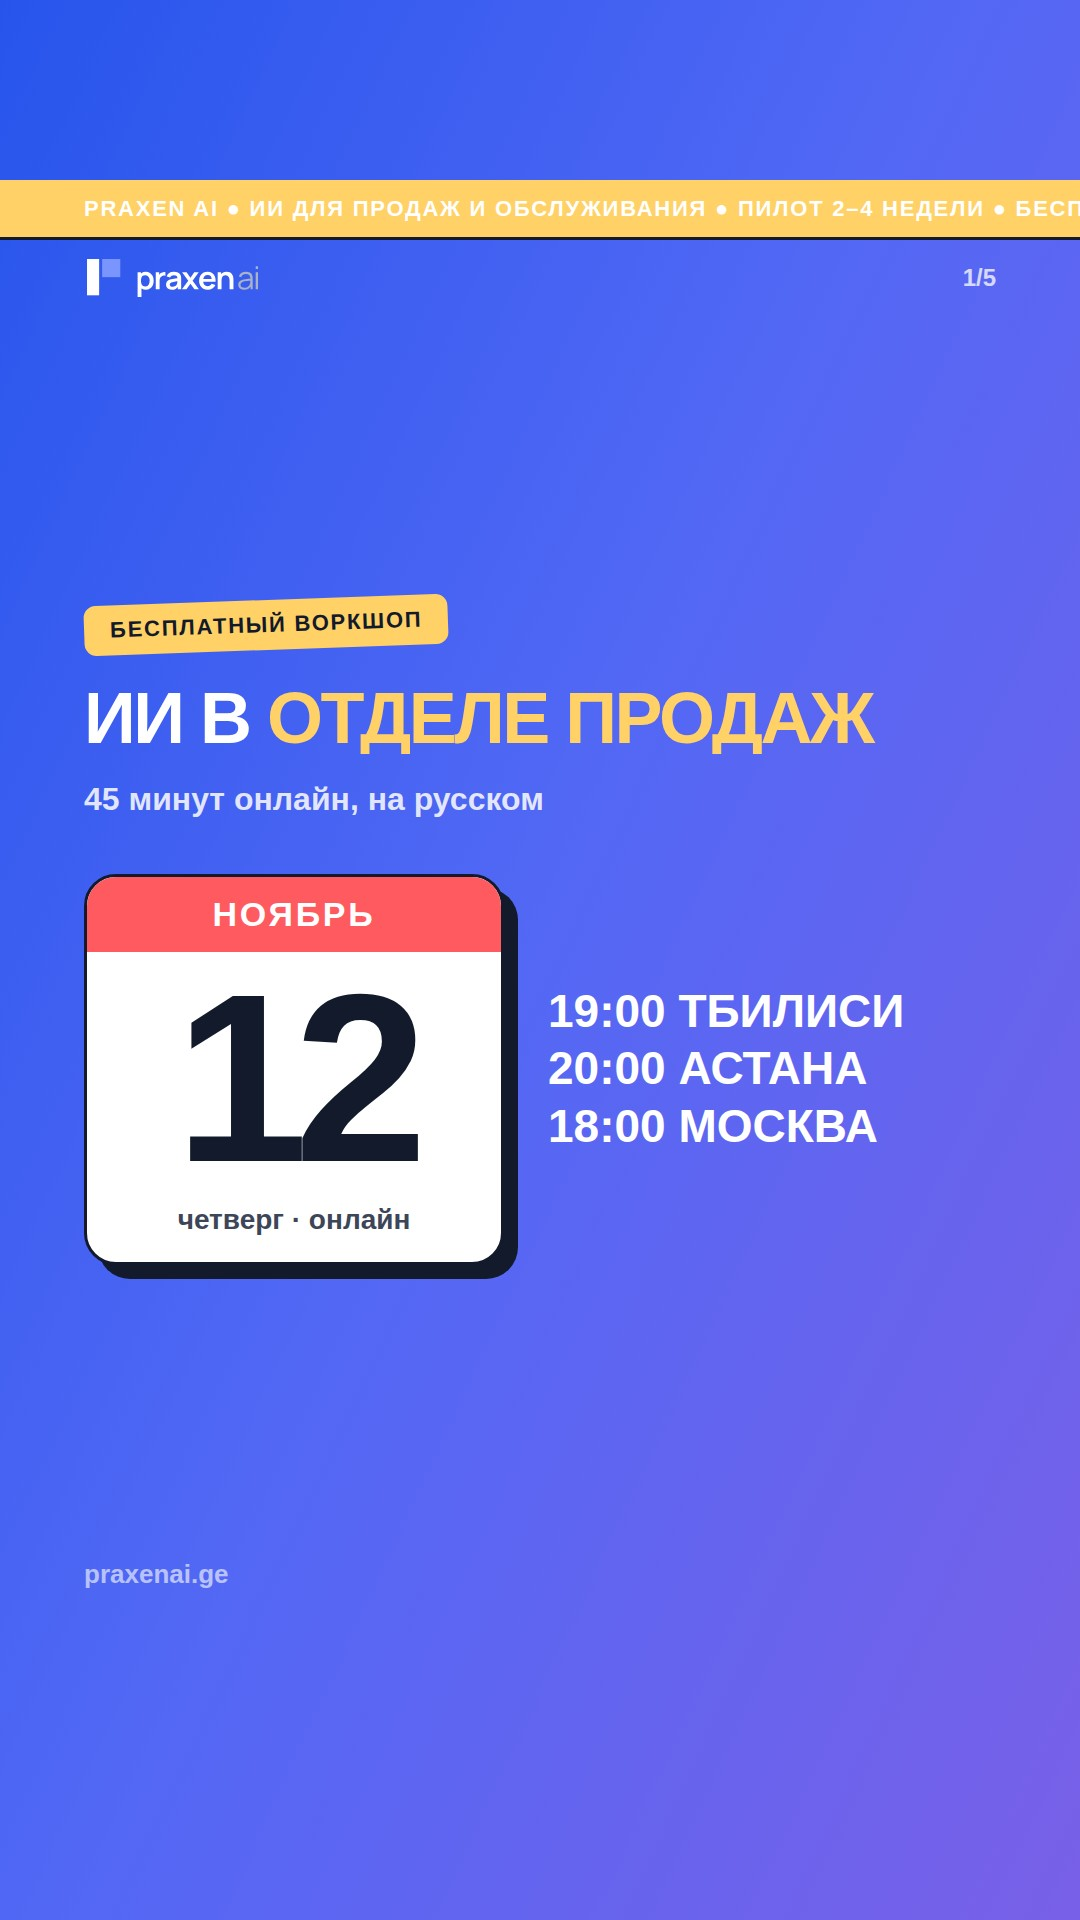
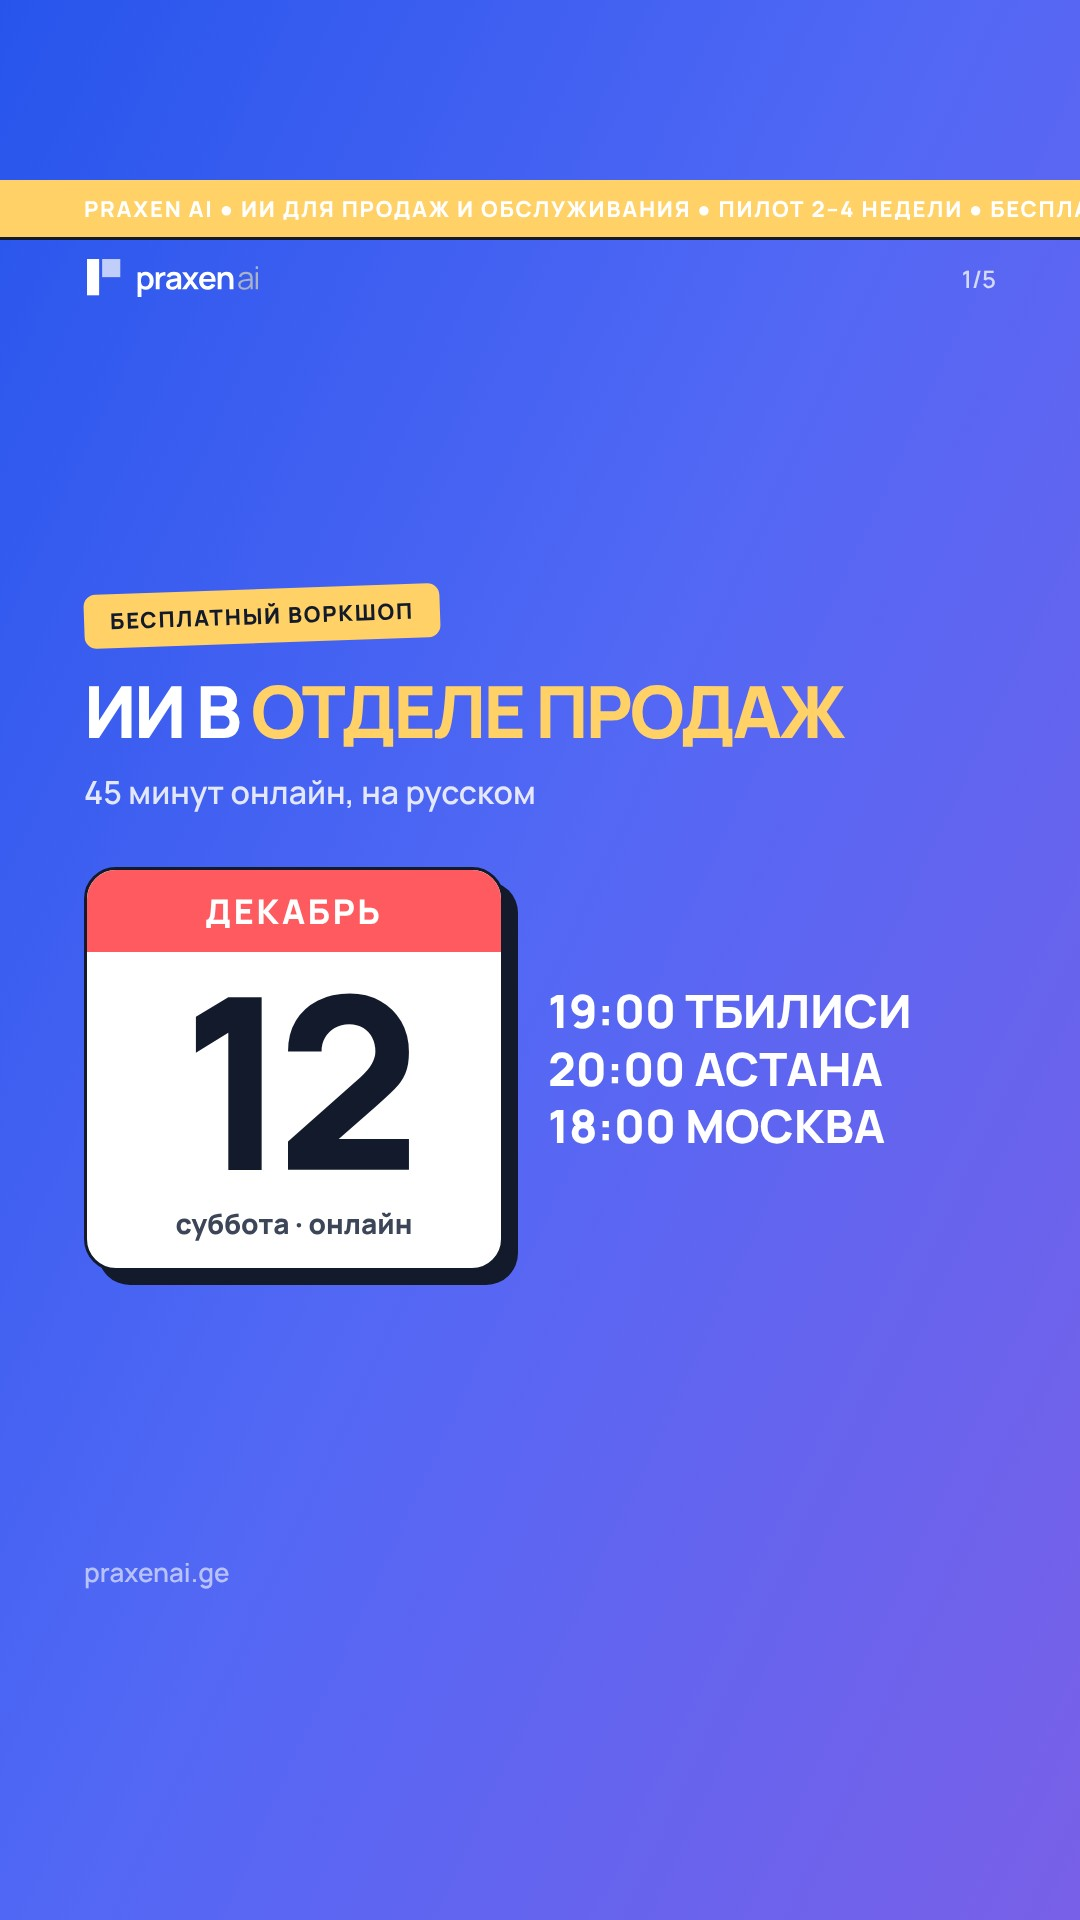
WIP: social visuals and post links in progress (branch only)
Claude-Session: https://claude.ai/code/session_016cAoh6X6YoekD4tjbRrE3m

diff --git a/docs/SMM-PLAN-2026-12.md b/docs/SMM-PLAN-2026-12.md
@@ -24,7 +24,7 @@
 | Посещения профиля и клики на сайт | Тот же отчёт: Instagram `profile_views`, `website_clicks`; Facebook `page_views_total` (окно 28 дней) | Окно на 16.11 | Сравниваем окна на 16.12 и 31.12 с окном на 16.11 |
 | Сохранения и пересылки | Тот же отчёт, по каждому посту Instagram: `saved`, `shares` | — | По ним выбираем посты для рекламы и следующие темы |
 | Ответы и обсуждения | Комментарии (отчёт по FB и IG), Threads `replies`, голоса в опросах Telegram | — | Смотрим, какие рубрики вызывают разговор |
-| Заявки на аудит | amoCRM, поле «Источник»; Метрика, цель «Сайт · заявка (любая услуга)», метка `utm_campaign=organic_dec` | Число за ноябрь из Метрики на 30.11 | Владелец задаёт после 30.11 |
+| Заявки на аудит | amoCRM, поле «Источник»; Метрика, цель «Сайт · заявка (любая услуга)», метка `utm_campaign=organic_2026-12` | Число за ноябрь из Метрики на 30.11 | Владелец задаёт после 30.11 |
 | Записи на воркшоп (только если владелец оставит отсчёт) | amoCRM, воронка воркшопа; Метрика, цель «Воркшоп · зарегистрировался», `utm_campaign=workshop_dec12` | 0 на 9.11 (со слов владельца) | Не ставим: воркшоп в соцсетях не продвигаем |
 
 Отчёт — каждый понедельник, как в ноябре. Цифры в посты попадают только из этих источников. Своих «баз» и средних по рынку не придумываем.
@@ -299,7 +299,7 @@
 - **Без картинок:** Telegram (кроме кейсов, если захотим обложку) и Threads (кроме мема 27.12).
 
 **Технические заметки:**
-- Метки: `utm_source=<сеть>&utm_medium=social&utm_campaign=organic_dec&utm_content=<id>`. Для ноябрьских добавок — `organic_nov`.
+- Метки: `utm_source=<сеть>&utm_medium=social&utm_campaign=organic_2026-12&utm_content=<id>`. Для ноябрьских добавок — `organic_2026-11`.
 - Примеры в постах помечаем «Пример сценария», цифры в них — «условные». Реальные истории — только с источником на слайде.
 - «Неделя в блоге» собирается из статей, которые реально вышли на praxenai.ge за неделю. Пересказ статьи не нужен, хватит строки о каждой и ссылки.
 - Грузинский текст (шаблон автоответа 23.12) вычитывает носитель.

diff --git a/content/social/out/feed-2026-11/f13-monthly-cost/captions.md b/content/social/out/feed-2026-11/f13-monthly-cost/captions.md
@@ -8,7 +8,7 @@
 Каждый месяц: токены ИИ, платные сообщения WhatsApp и сервер. Их вы оплачиваете поставщикам напрямую, на своих аккаунтах, без нашей наценки.
 По желанию: ведение от 550 ₾ в месяц — обновляем базу знаний, проверяем ответы, исправляем ошибки.
 
-Решение работает на ваших аккаунтах и без нас. Сколько выйдет в месяц именно у вас, зависит от числа переписок, поэтому считаем на аудите до начала работ. Аудит бесплатный: https://praxenai.ge/ru?utm_source=facebook&utm_medium=social&utm_campaign=organic_2026-11&utm_content=f13-monthly-cost#calculator
+Решение работает на ваших аккаунтах и без нас. Сколько выйдет в месяц именно у вас, зависит от числа переписок, поэтому считаем на аудите до начала работ. Аудит бесплатный: https://praxenai.ge/ru?utm_source=facebook&utm_medium=social&utm_campaign=organic_2026-11&utm_content=f13-monthly-cost#contact
 
 #ИИдлябизнеса #ценыИИ #ИИассистент
 
@@ -20,7 +20,7 @@
 Каждый месяц: токены ИИ, платные сообщения WhatsApp и сервер. Их вы оплачиваете поставщикам напрямую, на своих аккаунтах, без нашей наценки.
 По желанию: ведение от 550 ₾ в месяц — обновляем базу знаний, проверяем ответы, исправляем ошибки.
 
-Решение работает на ваших аккаунтах и без нас. Сколько выйдет в месяц именно у вас, зависит от числа переписок, поэтому считаем на аудите до начала работ. Аудит бесплатный: https://praxenai.ge/ru?utm_source=facebook&utm_medium=social&utm_campaign=organic_2026-11&utm_content=f13-monthly-cost#calculator
+Решение работает на ваших аккаунтах и без нас. Сколько выйдет в месяц именно у вас, зависит от числа переписок, поэтому считаем на аудите до начала работ. Аудит бесплатный: https://praxenai.ge/ru?utm_source=facebook&utm_medium=social&utm_campaign=organic_2026-11&utm_content=f13-monthly-cost#contact
 
 #ИИдлябизнеса #ценыИИ #ИИассистент
 

diff --git a/content/social/out/feed-2026-11/f08-expect-reality/captions.md b/content/social/out/feed-2026-11/f08-expect-reality/captions.md
@@ -9,7 +9,7 @@
 
 Скучнее, чем в рекламе нейросетей, зато клиент не услышит от бота скидку, которой нет.
 
-Начать можно с бесплатного аудита на 30 минут: выберем процесс и посчитаем эффект. https://praxenai.ge/ru?utm_source=facebook&utm_medium=social&utm_campaign=organic_2026-11&utm_content=f08-expect-reality#contact
+Начать можно с бесплатного аудита на 30 минут: выберем процесс и посчитаем эффект. Записаться: https://praxenai.ge/ru?utm_source=facebook&utm_medium=social&utm_campaign=organic_2026-11&utm_content=f08-expect-reality#contact
 
 #ИИдлябизнеса #внедрениеИИ #ожиданиереальность
 
@@ -22,7 +22,7 @@
 
 Скучнее, чем в рекламе нейросетей, зато клиент не услышит от бота скидку, которой нет.
 
-Начать можно с бесплатного аудита на 30 минут: выберем процесс и посчитаем эффект. https://praxenai.ge/ru?utm_source=facebook&utm_medium=social&utm_campaign=organic_2026-11&utm_content=f08-expect-reality#contact
+Начать можно с бесплатного аудита на 30 минут: выберем процесс и посчитаем эффект. Записаться: https://praxenai.ge/ru?utm_source=facebook&utm_medium=social&utm_campaign=organic_2026-11&utm_content=f08-expect-reality#contact
 
 #ИИдлябизнеса #внедрениеИИ #ожиданиереальность
 
@@ -35,6 +35,6 @@
 
 Скучнее, чем в рекламе нейросетей, зато клиент не услышит от бота скидку, которой нет.
 
-Начать можно с бесплатного аудита на 30 минут: выберем процесс и посчитаем эффект. ссылка в шапке профиля
+Начать можно с бесплатного аудита на 30 минут: выберем процесс и посчитаем эффект. Записаться: ссылка в шапке профиля
 
 #ИИдлябизнеса #внедрениеИИ #ожиданиереальность

diff --git a/content/social/out/telegram-2026-11/tg18-team-rules/captions.md b/content/social/out/telegram-2026-11/tg18-team-rules/captions.md
@@ -8,4 +8,4 @@
 2. Факты, цены и сроки проверяет человек. ИИ иногда уверенно придумывает то, чего нет. Это называется галлюцинация, и защищает от неё только проверка.
 3. Хорошие промпты — общие. Соберите в одном документе 10 промптов, которые работают у лучших сотрудников, и дайте всем.
 
-Если хотите провести такое обучение на задачах вашей команды, напишите нам: https://praxenai.ge/ru/training?utm_source=telegram&utm_medium=social&utm_campaign=organic_2026-11&utm_content=tg18-team-rules
+Обучение команды работе с ИИ на её задачах: https://praxenai.ge/ru/training?utm_source=telegram&utm_medium=social&utm_campaign=organic_2026-11&utm_content=tg18-team-rules

diff --git a/content/social/out/stories-interactive-2026-11/i16-11-12/captions.md b/content/social/out/stories-interactive-2026-11/i16-11-12/captions.md
@@ -1,4 +1,4 @@
-# i16-11-12 · 2026-11-12 · undefined
+# i16-11-12 · 2026-12-12 · undefined
 
 ## ru
 
